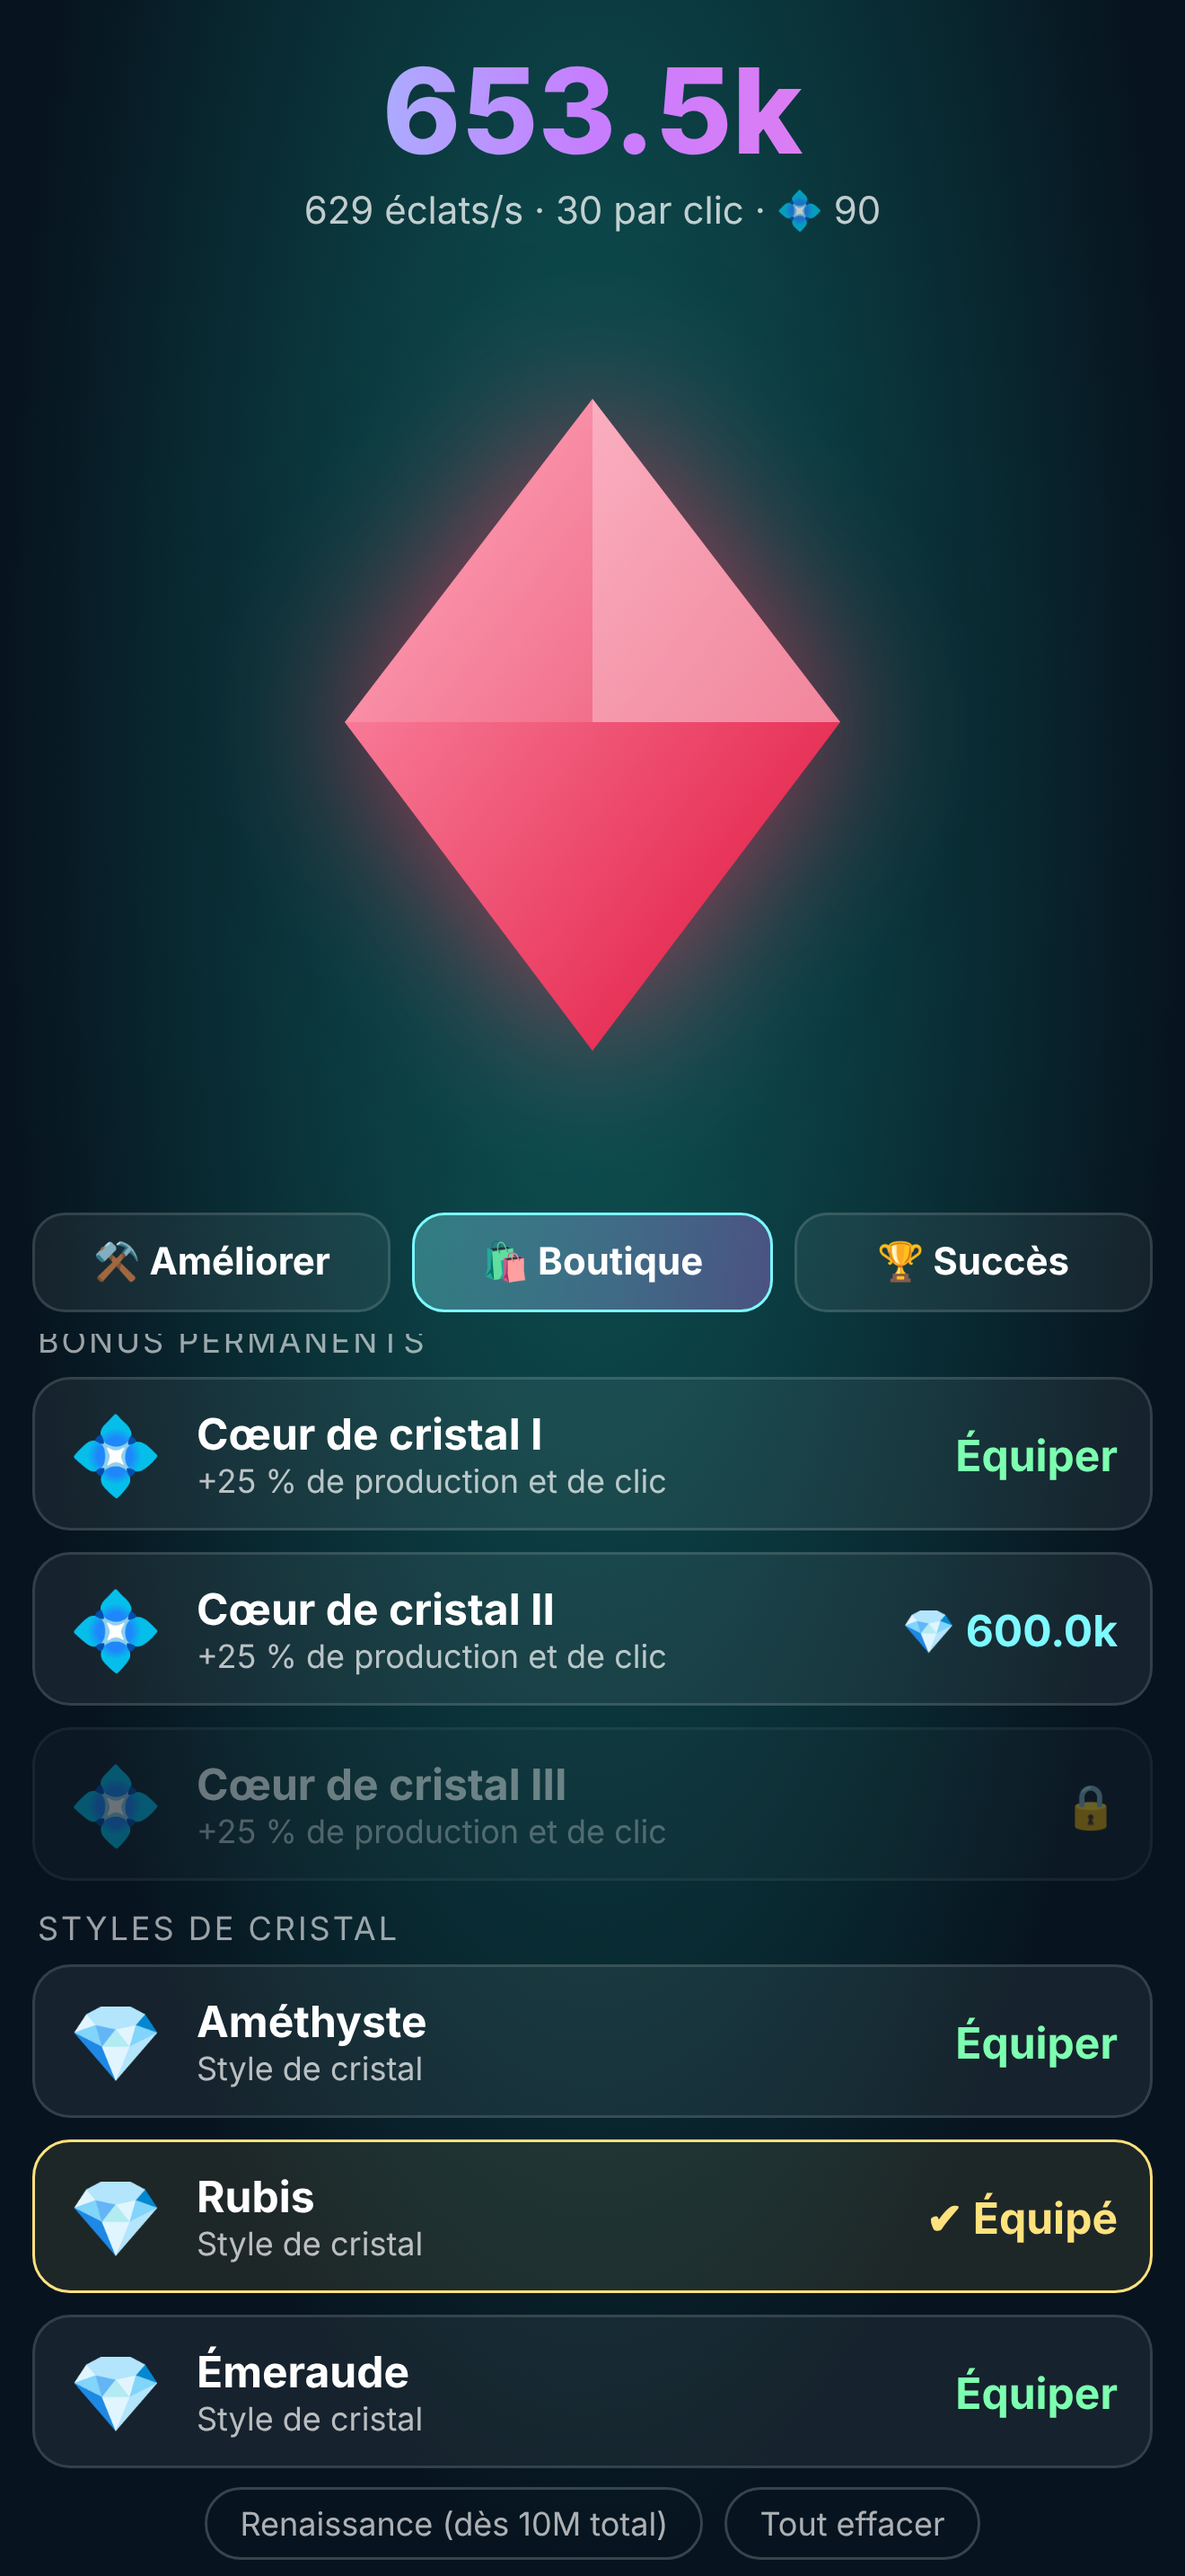
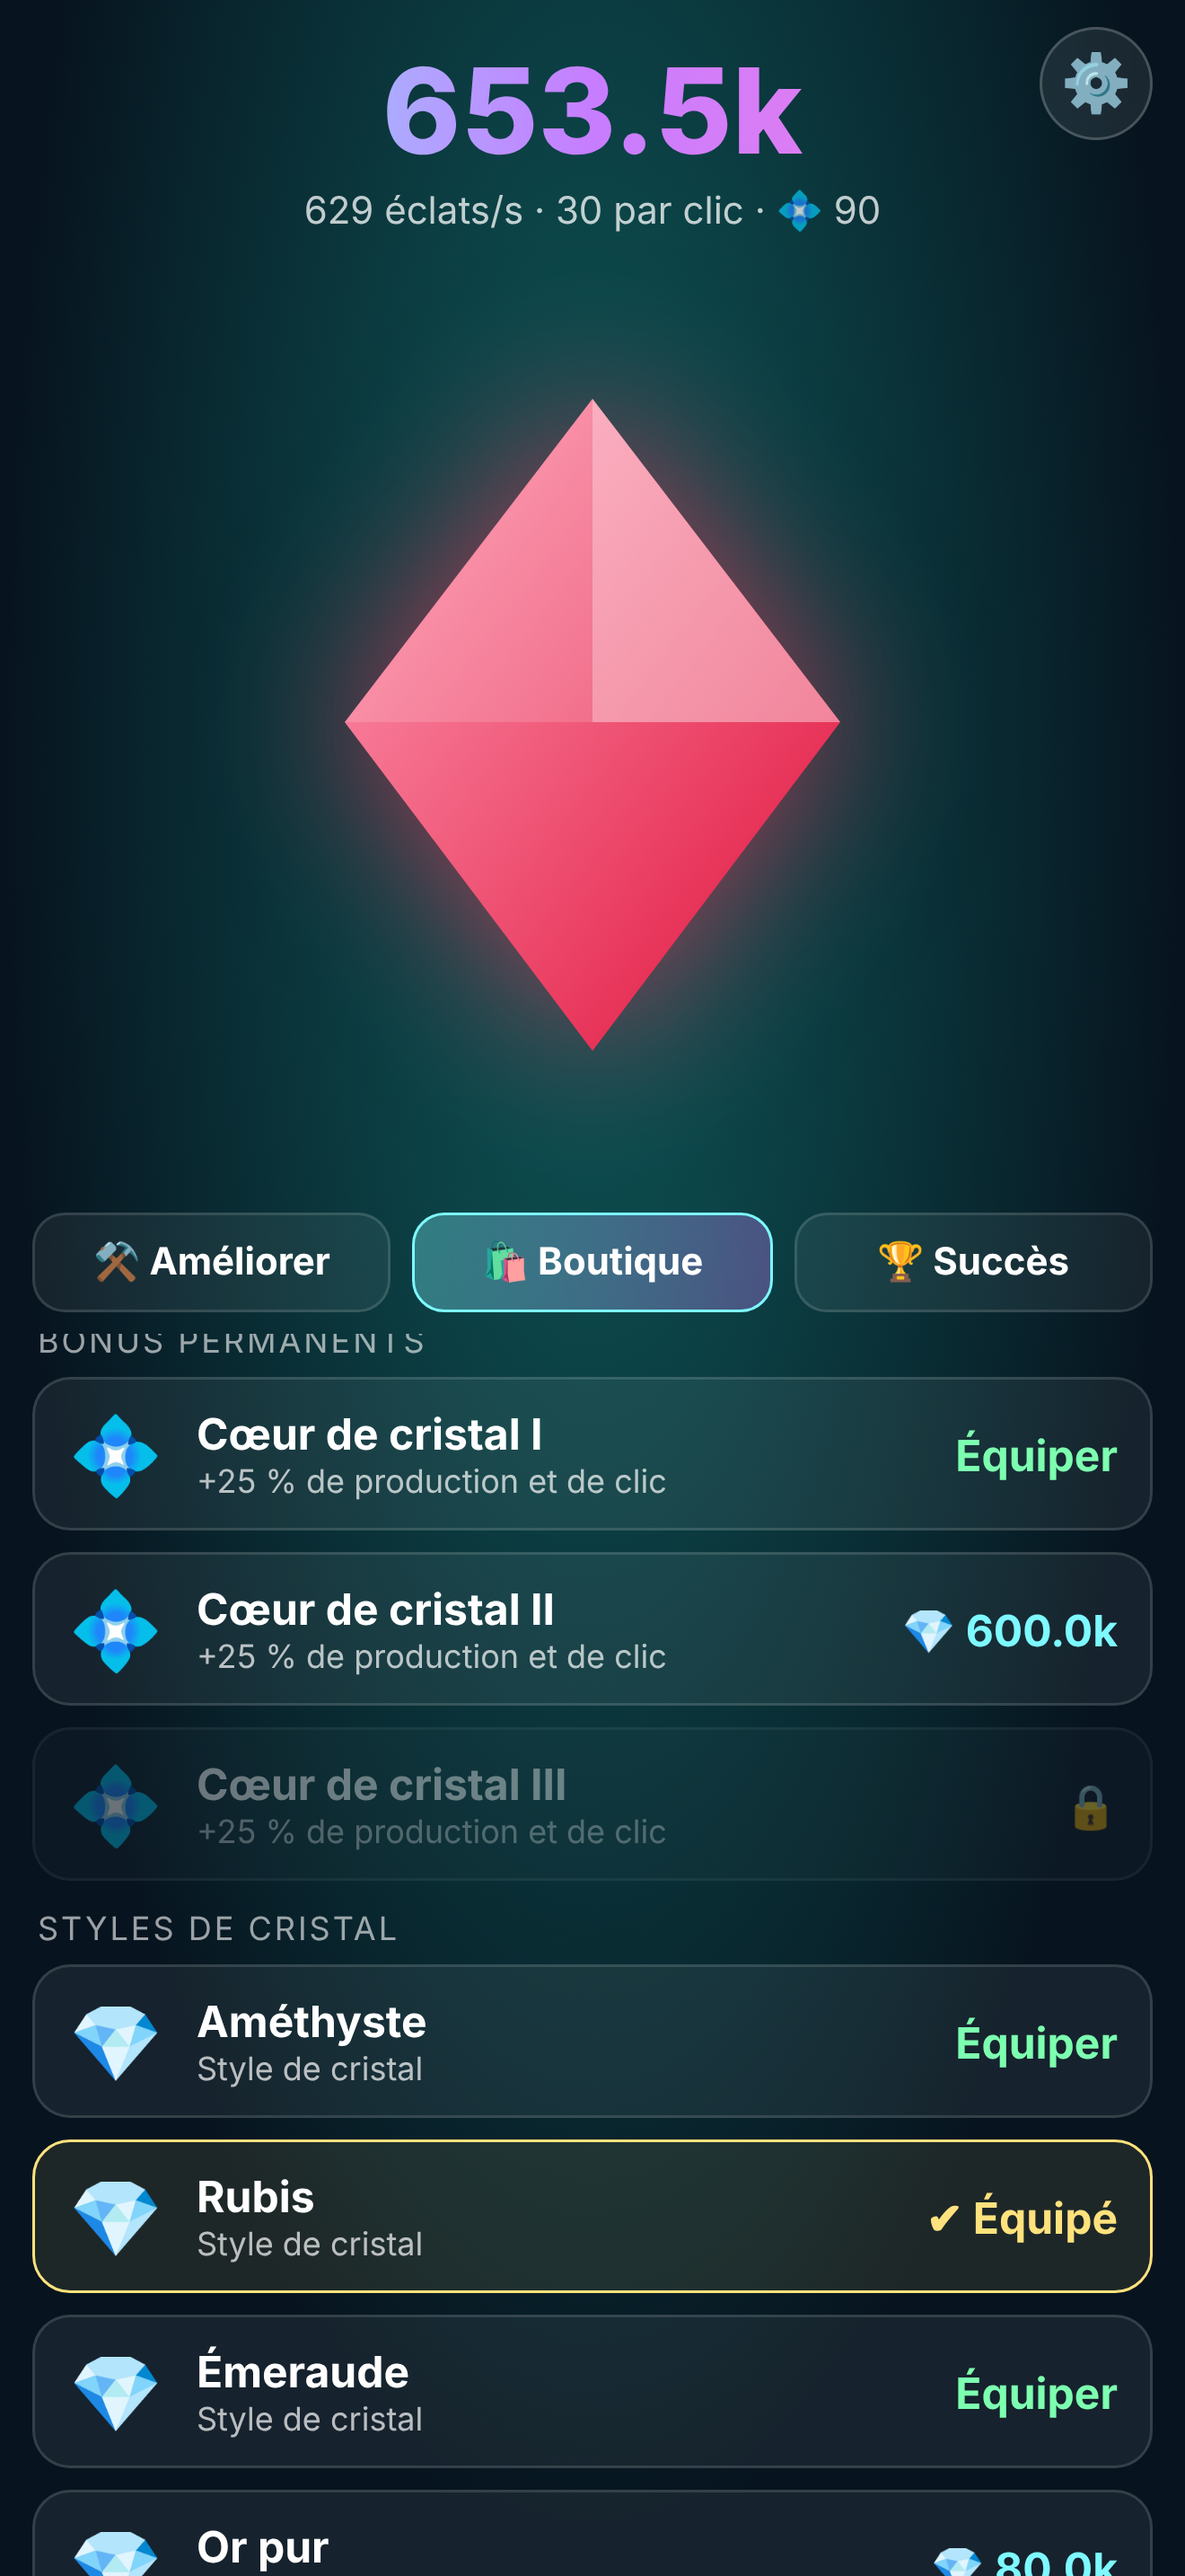
Paramètres : engrenage en haut à droite (renaissance, sons, vibrations, stats, effacement), confirmations intégrées, captures mises à jour
Claude-Session: https://claude.ai/code/session_01ApRL1W2u4UowVTDbZNodqZ

Changed region(s): [[0.0621, 0.962, 0.5591, 1.0], [0.6212, 0.962, 0.9629, 1.0], [0.9008, 0.0, 0.9629, 0.0621]]

diff --git a/index.html b/index.html
@@ -34,8 +34,6 @@
   .nm{font-weight:700}.ds{font-size:12px;opacity:.7}
   .pr{margin-left:auto;text-align:right;font-weight:700;color:#7df9ff;white-space:nowrap}
   .lv{font-size:12px;opacity:.7;font-weight:400;color:#fff}
-  #bar{display:flex;justify-content:center;gap:8px;padding:0 12px 6px;font-size:12px}
-  #bar button{background:none;border:1px solid #ffffff33;color:#ffffffaa;border-radius:20px;padding:5px 12px;font:inherit}
   #tabs{display:flex;gap:8px;padding:0 12px 8px}
   #tabs button{flex:1;padding:9px;border-radius:12px;border:1px solid #ffffff22;background:#ffffff10;color:#fff;font:inherit;font-weight:700}
   #tabs button.on{background:linear-gradient(90deg,#7df9ff55,#c77dff55);border-color:#7df9ff}
@@ -49,6 +47,37 @@
   .up.own .pr{color:#7dffb0}.up.eq{border-color:#ffe27d;background:#ffe27d18}.up.eq .pr{color:#ffe27d}
   #frz{z-index:4;pointer-events:none;text-shadow:0 0 6px #000;display:none;position:absolute;bottom:4px;left:0;right:0;text-align:center;font-weight:800;color:#ffb347}
   .rainbow #gem{animation:rb 4s linear infinite}@keyframes rb{to{filter:drop-shadow(0 0 30px #fff8) hue-rotate(360deg)}}
+  #gear{position:fixed;top:calc(env(safe-area-inset-top) + 10px);right:12px;z-index:6;width:42px;height:42px;border-radius:50%;
+    border:1px solid #ffffff33;background:#ffffff14;color:#fff;font-size:21px;line-height:1;padding:0;display:flex;align-items:center;justify-content:center;
+    backdrop-filter:blur(6px)}
+  #gear:active{transform:rotate(60deg) scale(.92)}
+  .modal{position:fixed;inset:0;z-index:30;display:none;align-items:center;justify-content:center;padding:16px;background:#050314cc;backdrop-filter:blur(4px)}
+  .modal.open{display:flex}
+  .panel{width:100%;max-width:420px;max-height:90dvh;overflow-y:auto;border-radius:22px;padding:18px 16px 16px;
+    background:linear-gradient(180deg,#1f1442,#120a2b);border:1px solid #ffffff22;box-shadow:0 20px 60px #000a}
+  .ph{display:flex;align-items:center;justify-content:space-between;margin-bottom:6px}
+  .ph h2{margin:0;font-size:22px}
+  .x{width:36px;height:36px;border-radius:50%;border:0;background:#ffffff18;color:#fff;font-size:18px;padding:0}
+  .card{margin:12px 0 0;padding:14px;border-radius:16px;background:#ffffff0d;border:1px solid #ffffff1a}
+  .card h3{margin:0 0 6px;font-size:15px}
+  .card p{margin:4px 0;font-size:13px;opacity:.8;line-height:1.4}
+  .row{display:flex;align-items:center;justify-content:space-between;padding:10px 0;border-top:1px solid #ffffff14}
+  .row:first-of-type{border-top:0}
+  .sw{position:relative;width:50px;height:30px;border-radius:20px;border:0;background:#ffffff2a;padding:0;transition:background .2s;flex:none}
+  .sw::after{content:"";position:absolute;top:3px;left:3px;width:24px;height:24px;border-radius:50%;background:#fff;transition:transform .2s}
+  .sw.on{background:linear-gradient(90deg,#7df9ff,#c77dff)}.sw.on::after{transform:translateX(20px)}
+  .btn{width:100%;margin:10px 0 0;padding:13px;border-radius:14px;border:0;font:inherit;font-weight:800;font-size:16px;color:#0b0820;
+    background:linear-gradient(90deg,#7df9ff,#c77dff)}
+  .btn:disabled{opacity:.35}
+  .btn.ghost{background:#ffffff14;color:#fff;font-weight:600}
+  .btn.danger{background:#ff2d5522;color:#ff7d93;border:1px solid #ff2d5566}
+  .btn.red{background:#ff2d55;color:#fff}
+  .meter{height:8px;border-radius:6px;background:#ffffff22;overflow:hidden;margin:8px 0}
+  .meter i{display:block;height:100%;background:linear-gradient(90deg,#7df9ff,#c77dff);width:0}
+  .stats{display:grid;grid-template-columns:1fr 1fr;gap:8px;font-size:13px}.stats b{display:block;font-size:17px;color:#7df9ff}
+  .lnk{display:block;text-align:center;margin-top:12px;font-size:13px;color:#c77dff}
+  .dlg h2{margin:0 0 8px;font-size:19px}.dlg p{margin:0;opacity:.85;line-height:1.45;font-size:15px}
+  .dlg .two{display:flex;gap:10px;margin-top:6px}.dlg .two .btn{margin-top:12px}
   #ev{position:fixed;inset:0;pointer-events:none;overflow:hidden;z-index:5}
   .gold,.star{position:absolute;pointer-events:auto;cursor:pointer}
   .gold{width:64px;height:80px;clip-path:polygon(50% 0,100% 50%,50% 100%,0 50%);
@@ -80,7 +109,36 @@
 <div id="shop"></div>
 <div id="shop3" style="display:none;flex:1;min-height:0;overflow-y:auto;padding:8px 12px 12px"></div>
 <div id="shop2" style="display:none;flex:1;overflow-y:auto;padding:8px 12px 12px"></div>
-<div id="bar"><button id="rs">Renaissance</button><button id="rst">Tout effacer</button></div>
+<button id="gear" aria-label="Paramètres">⚙</button>
+<div id="set" class="modal"><div class="panel">
+  <div class="ph"><h2>⚙ Paramètres</h2><button class="x" id="setx" aria-label="Fermer">✕</button></div>
+
+  <div class="card"><h3>✦ Renaissance</h3>
+    <p>Repars de zéro : tu perds éclats et améliorations, mais tu gardes tes styles, décors, bonus de boutique et succès, et tu gagnes des ✦ (+25 % de production chacun) ainsi que des gemmes.</p>
+    <div class="meter"><i id="rbar"></i></div>
+    <p id="rinfo"></p>
+    <button class="btn" id="rs">Renaître</button>
+  </div>
+
+  <div class="card"><h3>Préférences</h3>
+    <div class="row"><span>🔊 Sons</span><button class="sw" id="sw_sound" aria-label="Sons"></button></div>
+    <div class="row"><span>📳 Vibrations</span><button class="sw" id="sw_vib" aria-label="Vibrations"></button></div>
+  </div>
+
+  <div class="card"><h3>Ta partie</h3>
+    <div class="stats" id="stats"></div>
+  </div>
+
+  <div class="card"><h3>Zone de danger</h3>
+    <p>Efface définitivement toute ta progression : éclats, gemmes, styles, succès, ✦. Impossible à annuler.</p>
+    <button class="btn danger" id="rst">Effacer ma progression</button>
+  </div>
+  <a class="lnk" href="https://anthonysegura38450-wq.github.io/Eclats-Eternels/privacy.html" target="_blank" rel="noopener">Politique de confidentialité</a>
+</div></div>
+<div id="dlg" class="modal"><div class="panel dlg">
+  <h2 id="dt"></h2><p id="dp"></p>
+  <div class="two"><button class="btn ghost" id="dno">Annuler</button><button class="btn" id="dok">OK</button></div>
+</div></div>
 <div id="ev"></div>
 <div id="toast"></div>
 
@@ -123,7 +181,7 @@ const HEARTS=[{id:'h1',nm:'Cœur de cristal I',price:60000},{id:'h2',nm:'Cœur d
 const KEY='ee_clicker';
 let S={score:0,total:0,lv:{},eternity:0,last:Date.now(),own:{ame:1,nuit:1},skin:'ame',theme:'nuit',frenzy:0,gems:0,surge:0,nextMil:1e6,golds:0,stars:0,daily:{d:'',n:0},clicks:0,maxTotal:0,frenzies:0,rebirths:0,ach:{}};
 try{const r=JSON.parse(localStorage.getItem(KEY));if(r)S=Object.assign(S,r)}catch(e){}
-S.own=Object.assign({ame:1,nuit:1},S.own);S.ach=S.ach||{};
+S.own=Object.assign({ame:1,nuit:1},S.own);S.opt=Object.assign({sound:1,vib:1},S.opt||{});S.ach=S.ach||{};
 UPS.forEach(u=>S.lv[u.id]=S.lv[u.id]||0);
 
 const frenzyOn=()=>Date.now()<S.frenzy;
@@ -150,10 +208,11 @@ const frenzyPrice=()=>Math.max(800,Math.ceil(baseSec()*200));
 const save=()=>{S.last=Date.now();try{localStorage.setItem(KEY,JSON.stringify(S))}catch(e){}};
 // Retour haptique : natif dans l'app iOS (Capacitor), vibration web sinon
 const vib=ms=>{
+  if(!S.opt.vib)return;
   try{const H=window.Capacitor&&window.Capacitor.isNativePlatform&&window.Capacitor.isNativePlatform()&&window.Capacitor.Plugins&&window.Capacitor.Plugins.Haptics;
     if(H){if(Array.isArray(ms))H.notification({type:'SUCCESS'});else H.impact({style:ms<=15?'LIGHT':'MEDIUM'});return}
     navigator.vibrate&&navigator.vibrate(ms)}catch(e){}};
-let ac;function tick(f){try{ac=ac||new (window.AudioContext||window.webkitAudioContext)();
+let ac;function tick(f){if(!S.opt.sound)return;try{ac=ac||new (window.AudioContext||window.webkitAudioContext)();
   const o=ac.createOscillator(),g=ac.createGain();o.type='triangle';o.frequency.value=f;g.gain.value=.06;
   g.gain.exponentialRampToValueAtTime(.0001,ac.currentTime+.08);o.connect(g).connect(ac.destination);o.start();o.stop(ac.currentTime+.08)}catch(e){}}
 function toast(h,ms=3500){const t=$('toast');t.innerHTML=h;t.style.display='block';clearTimeout(toast.t);toast.t=setTimeout(()=>t.style.display='none',ms)}
@@ -289,7 +348,7 @@ function render(){
     b.classList.toggle('own',st==='own'||st==='done');
     pr.textContent=st==='done'?'✔ Acquis':st==='own'?'Équiper':st==='eq'?'✔ Équipé':st==='lock'?'🔒':st==='on'?'Actif':it.label?it.label:(it.cur==='gem'?'💠 ':'💎 ')+fmt(p)}
   renderAch();
-  $('rs').textContent=gain()>0?`Renaissance (+${gain()} ✦)`:'Renaissance (dès 10M total)';
+  if(setOpen)renderSettings();
   const f=$('frz'),pt=[],mmss=ms=>{const t=Math.ceil(ms/1000);return Math.floor(t/60)+':'+String(t%60).padStart(2,'0')};
   if(surgeOn())pt.push('⚡ MILLION ×10 — '+mmss(S.surge-Date.now()));
   if(frenzyOn())pt.push('🔥 FRÉNÉSIE ×3 — '+Math.ceil((S.frenzy-Date.now())/1000)+'s');
@@ -366,10 +425,42 @@ if(off>30&&baseSec()>0){const v=baseSec()*(1+S.eternity*0.25)*(1+hearts()*0.25)*
   toast(`Bon retour !<br>Tes cristaux ont produit <b>${fmt(v)}</b> éclats pendant ton absence.`,4500)}
 
 {const d=dailyReward();if(d)setTimeout(()=>toast(d,5000),off>30?5200:600)}
-$('rs').onclick=()=>{const g=gain();if(g<1)return alert('Il faut avoir cumulé 10M d\'éclats pour renaître.');
-  if(confirm(`Renaître ? Tu perds éclats et améliorations (tes styles et bonus de boutique restent), mais gagnes +${g} ✦ (chaque ✦ = +25 % de production) et +${g*GEMS_PER_ETERNITY} 💠.`)){
-    S.eternity+=g;S.gems+=g*GEMS_PER_ETERNITY;S.rebirths++;S.nextMil=1e6;S.score=0;S.total=0;UPS.forEach(u=>S.lv[u.id]=0);save();render()}};
-$('rst').onclick=()=>{if(confirm('Tout effacer, y compris ta progression ?')){try{localStorage.removeItem(KEY)}catch(e){}location.reload()}};
+// ---------- Paramètres ----------
+let setOpen=false;
+function renderSettings(){
+  const g=gain();
+  $('rbar').style.width=Math.min(100,100*S.total/ETERNITY_AT)+'%';
+  $('rinfo').innerHTML=g>=1
+    ? `Si tu renais maintenant : <b>+${g} ✦</b> et <b>+${g*GEMS_PER_ETERNITY} 💠</b>.<br>Tu as déjà ✦ ${S.eternity} (×${(1+S.eternity*0.25).toFixed(2)}).`
+    : `Il faut cumuler <b>${fmt(ETERNITY_AT)}</b> éclats pour renaître : tu en es à ${fmt(S.total)} (${Math.floor(100*S.total/ETERNITY_AT)} %).`;
+  $('rs').disabled=g<1;$('rs').textContent=g>=1?`Renaître (+${g} ✦)`:'Pas encore possible';
+  $('sw_sound').classList.toggle('on',!!S.opt.sound);$('sw_vib').classList.toggle('on',!!S.opt.vib);
+  $('stats').innerHTML=[['Clics',S.clicks],['Éclats cumulés',fmt(S.maxTotal)],['Succès',`${achCount()} / ${ACH.length}`],['Renaissances',S.rebirths],['Cristaux dorés',S.golds],['Étoiles',S.stars]]
+    .map(x=>`<div>${x[0]}<b>${typeof x[1]==='number'?x[1].toLocaleString('fr-FR'):x[1]}</b></div>`).join('');
+}
+const openSet=()=>{setOpen=true;$('set').classList.add('open');renderSettings()};
+const closeSet=()=>{setOpen=false;$('set').classList.remove('open')};
+$('gear').onclick=openSet;$('setx').onclick=closeSet;
+$('set').addEventListener('pointerdown',e=>{if(e.target===$('set'))closeSet()});
+
+// Boîte de confirmation intégrée (remplace confirm())
+function ask(title,html,okLabel,danger){return new Promise(res=>{
+  $('dt').textContent=title;$('dp').innerHTML=html;const ok=$('dok');ok.textContent=okLabel;ok.className='btn'+(danger?' red':'');
+  $('dlg').classList.add('open');
+  const done=v=>{$('dlg').classList.remove('open');ok.onclick=$('dno').onclick=null;res(v)};
+  ok.onclick=()=>done(true);$('dno').onclick=()=>done(false)})}
+
+$('sw_sound').onclick=()=>{S.opt.sound=S.opt.sound?0:1;if(S.opt.sound)tick(660);save();renderSettings()};
+$('sw_vib').onclick=()=>{S.opt.vib=S.opt.vib?0:1;if(S.opt.vib)vib(30);save();renderSettings()};
+
+$('rs').onclick=async()=>{const g=gain();if(g<1)return;
+  if(await ask('Renaître ?',`Tu perds tes éclats et tes améliorations.<br>Tu gardes styles, décors, bonus, succès et gemmes.<br><br>Tu gagnes <b>+${g} ✦</b> (+${g*25} % de production) et <b>+${g*GEMS_PER_ETERNITY} 💠</b>.`,'Renaître',false)){
+    S.eternity+=g;S.gems+=g*GEMS_PER_ETERNITY;S.rebirths++;S.nextMil=1e6;S.surge=0;S.score=0;S.total=0;UPS.forEach(u=>S.lv[u.id]=0);
+    save();closeSet();render();toast(`✦ <b>Renaissance !</b><br>+${g} ✦ · +${g*GEMS_PER_ETERNITY} 💠`,3500)}};
+$('rst').onclick=async()=>{
+  if(!await ask('Effacer ta progression ?','Tout sera supprimé : éclats, gemmes, styles, succès, ✦.<br><b>Cette action est définitive.</b>','Continuer',true))return;
+  if(await ask('Vraiment tout effacer ?','Dernière confirmation : ta partie sera remise à zéro.','Oui, tout effacer',true)){
+    try{localStorage.removeItem(KEY)}catch(e){}location.reload()}};
 document.addEventListener('visibilitychange',()=>{save();if(!document.hidden){lt=performance.now()}});
 addEventListener('pagehide',save);
 document.addEventListener('dblclick',e=>e.preventDefault());

diff --git a/sw.js b/sw.js
@@ -1,4 +1,4 @@
-const C='ee-v12',F=['./','index.html',"catcher.html",'manifest.json','icon.svg'];
+const C='ee-v13',F=['./','index.html',"catcher.html",'manifest.json','icon.svg'];
 self.addEventListener('install',e=>e.waitUntil(caches.open(C).then(c=>c.addAll(F))));
 self.addEventListener('activate',e=>e.waitUntil(caches.keys().then(k=>Promise.all(k.filter(x=>x!==C).map(x=>caches.delete(x))))));
 self.addEventListener('fetch',e=>e.respondWith(fetch(e.request).catch(()=>caches.match(e.request))));

diff --git a/README.md b/README.md
@@ -16,3 +16,6 @@ Contrôles : glisser (tactile/souris) ou flèches ←/→.
 - 🌠 **Pluie d'étoiles** : des étoiles tombent sur l'écran, chacune touchée rapporte des éclats.
 - 🎁 **Récompense quotidienne** : série de 7 jours (éclats + gemmes, gros bonus au jour 7).
 - 🎉 **Week-end lumineux** : production ×1,5 le samedi et le dimanche.
+
+## Paramètres
+Engrenage ⚙ en haut à droite : Renaissance (avec aperçu du gain), sons, vibrations, statistiques de la partie, effacement de la progression (double confirmation) et lien vers la politique de confidentialité.
